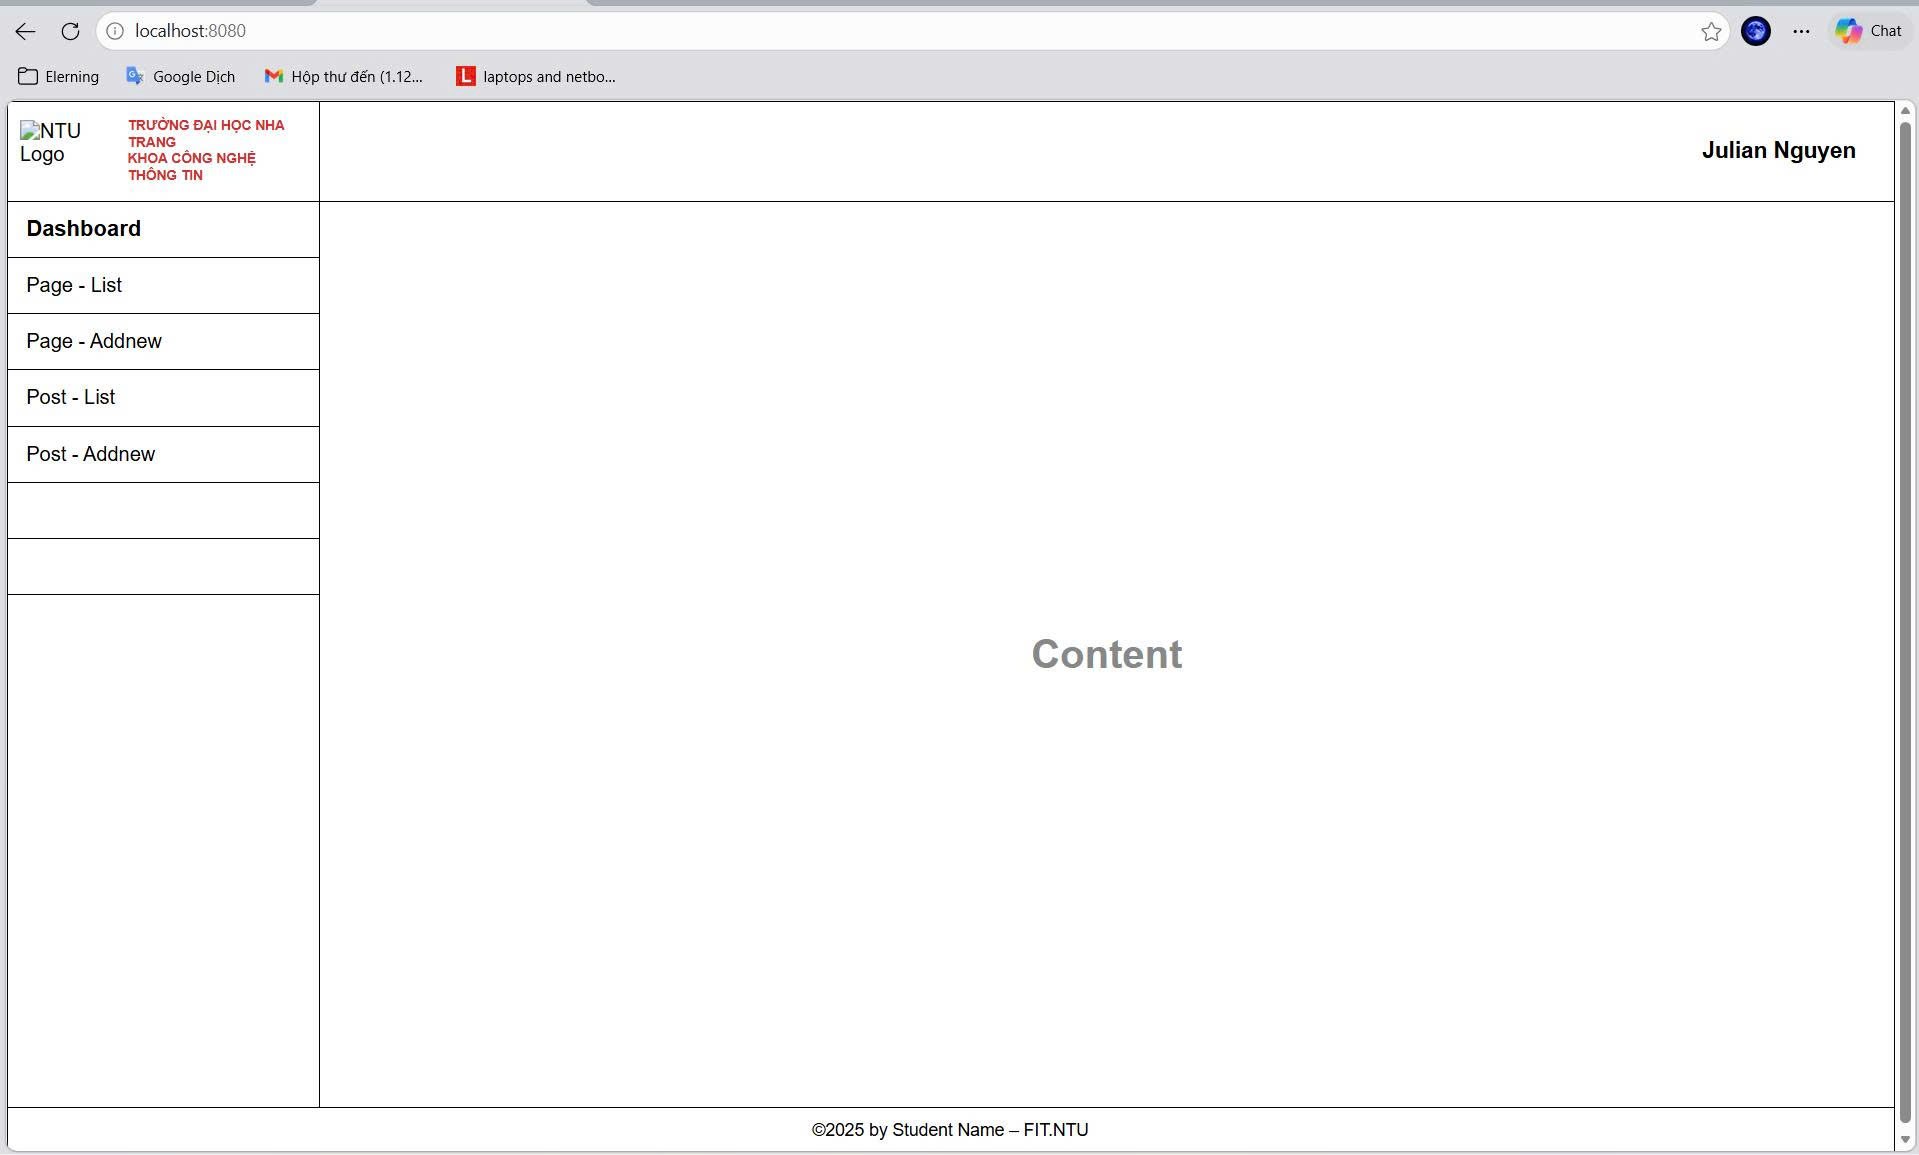
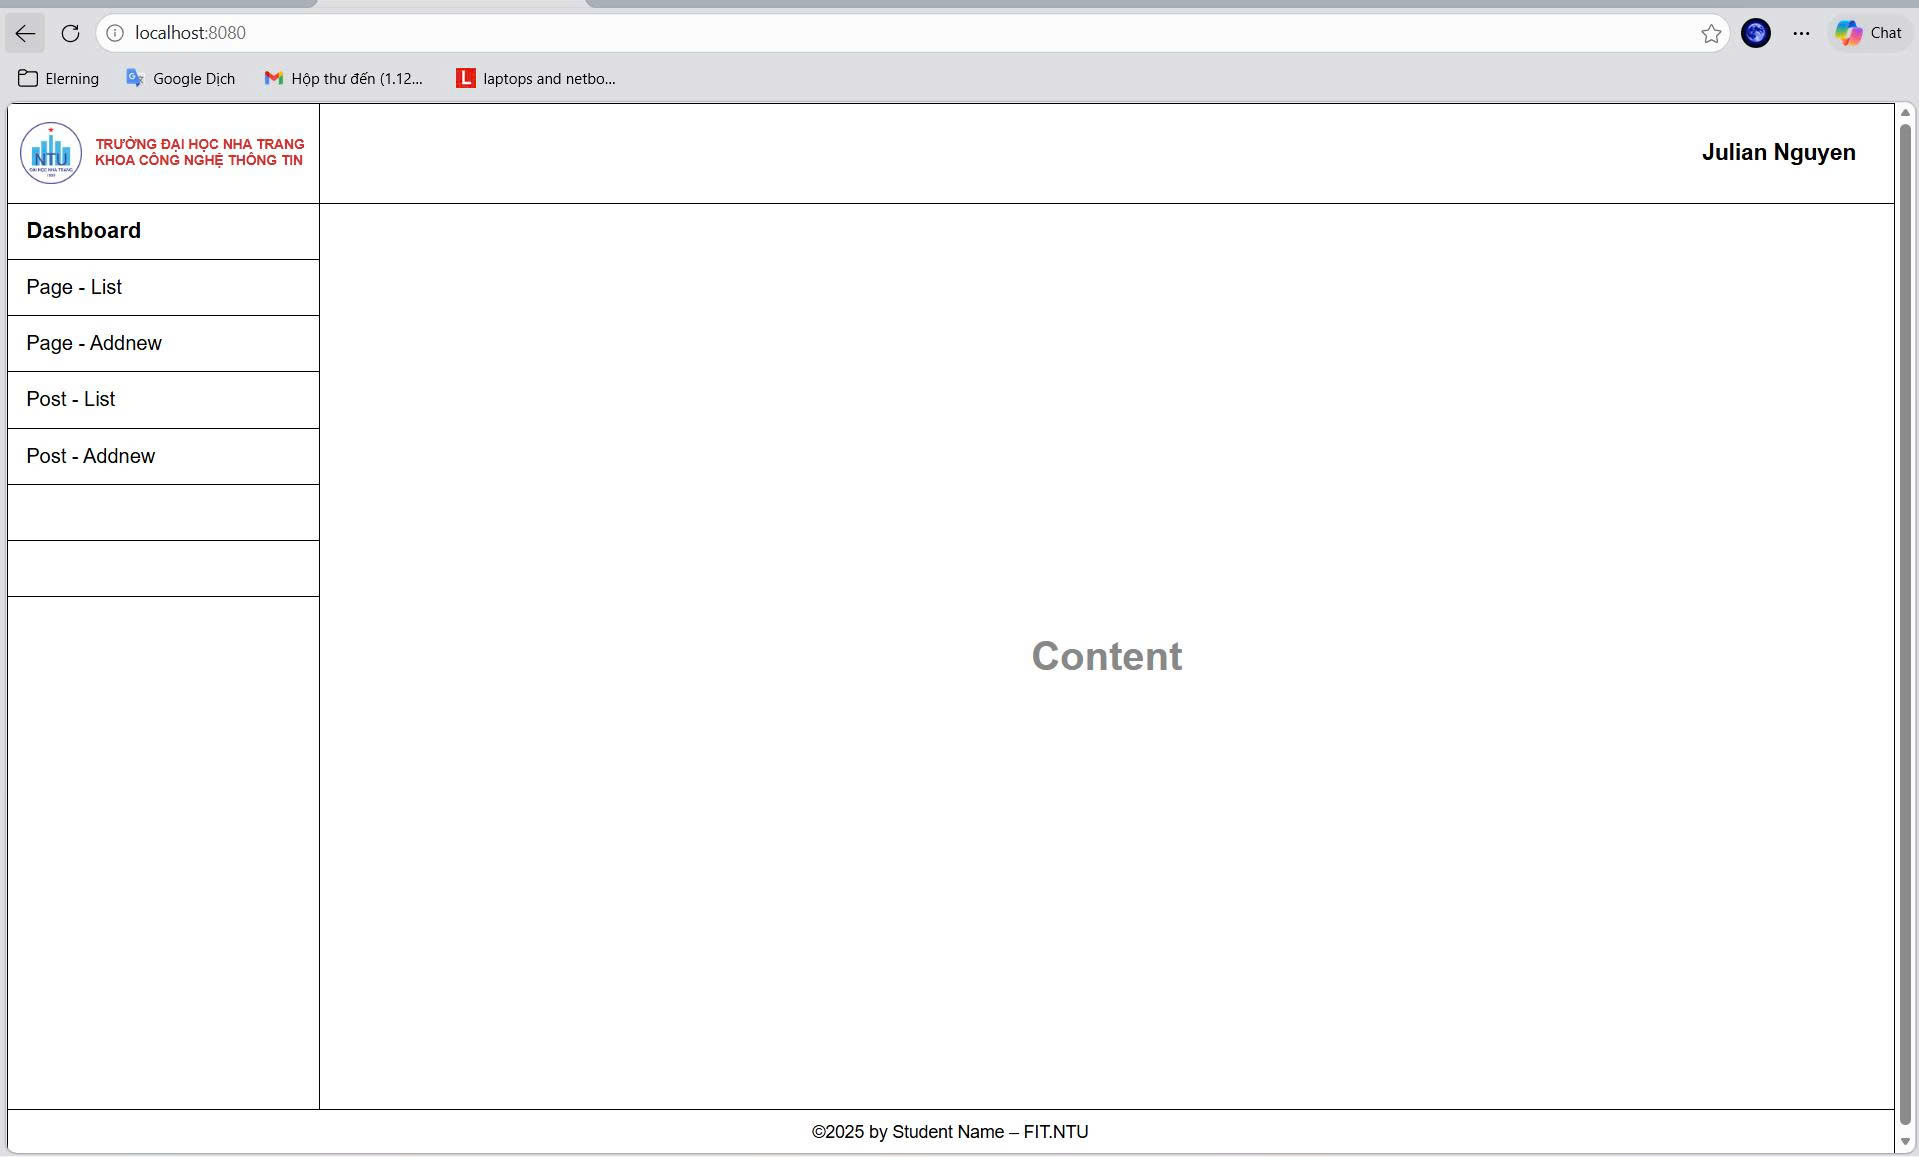
add demo image

Changed region(s): [[0.0, 0.0, 1.0, 0.1558], [0.0, 0.187, 0.0922, 0.4052], [0.8916, 0.1247, 0.9531, 0.1558]]

diff --git a/OnThiGK/src/main/resources/templates/HomeView.html b/OnThiGK/src/main/resources/templates/HomeView.html
@@ -126,7 +126,7 @@
 
     <header>
         <div class="logo-section">
-            <img src="https://upload.wikimedia.org/wikipedia/vi/c/c7/Logo_Dai_hoc_Nha_Trang.png" alt="NTU Logo">
+            <img th:src="@{/images/Logo_NTU.png}" alt="NTU Logo">
             <div class="school-info">
                 TRƯỜNG ĐẠI HỌC NHA TRANG<br>
                 KHOA CÔNG NGHỆ THÔNG TIN
